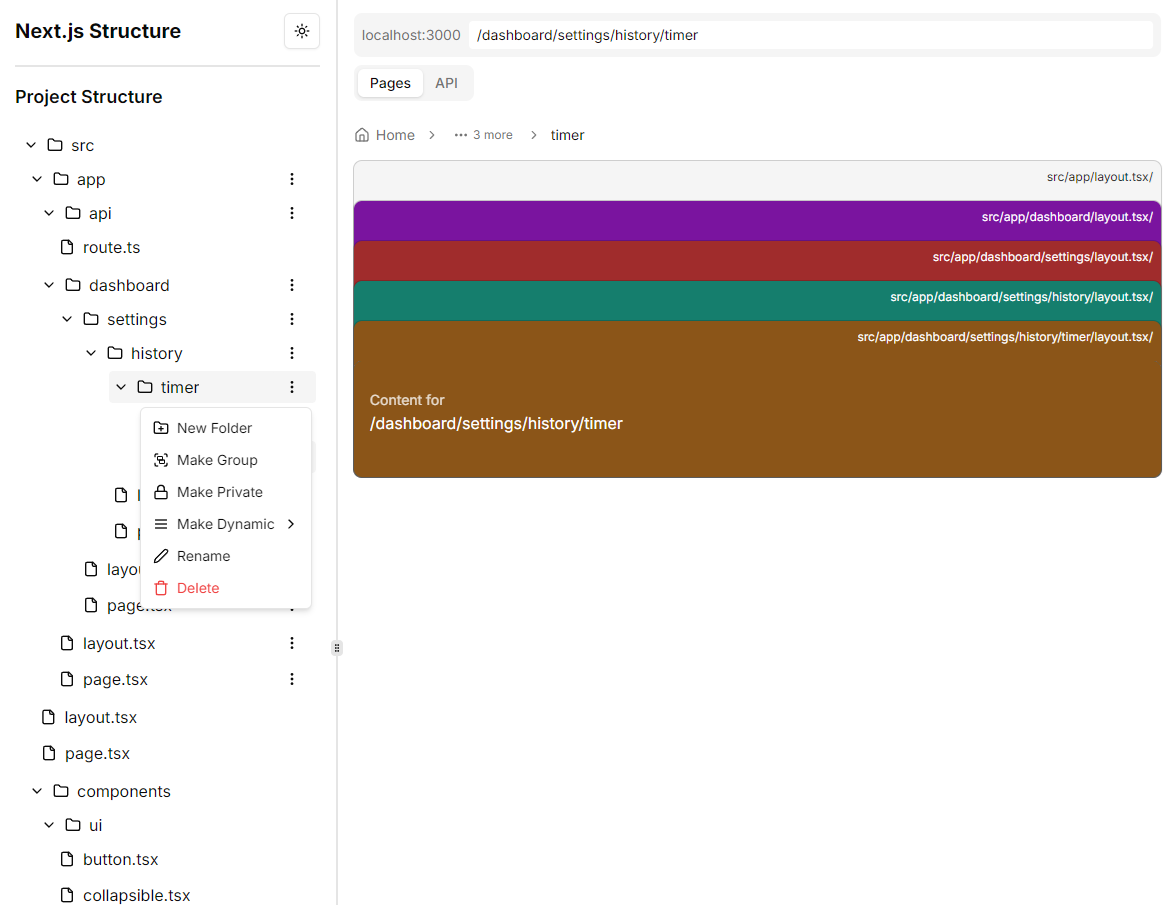
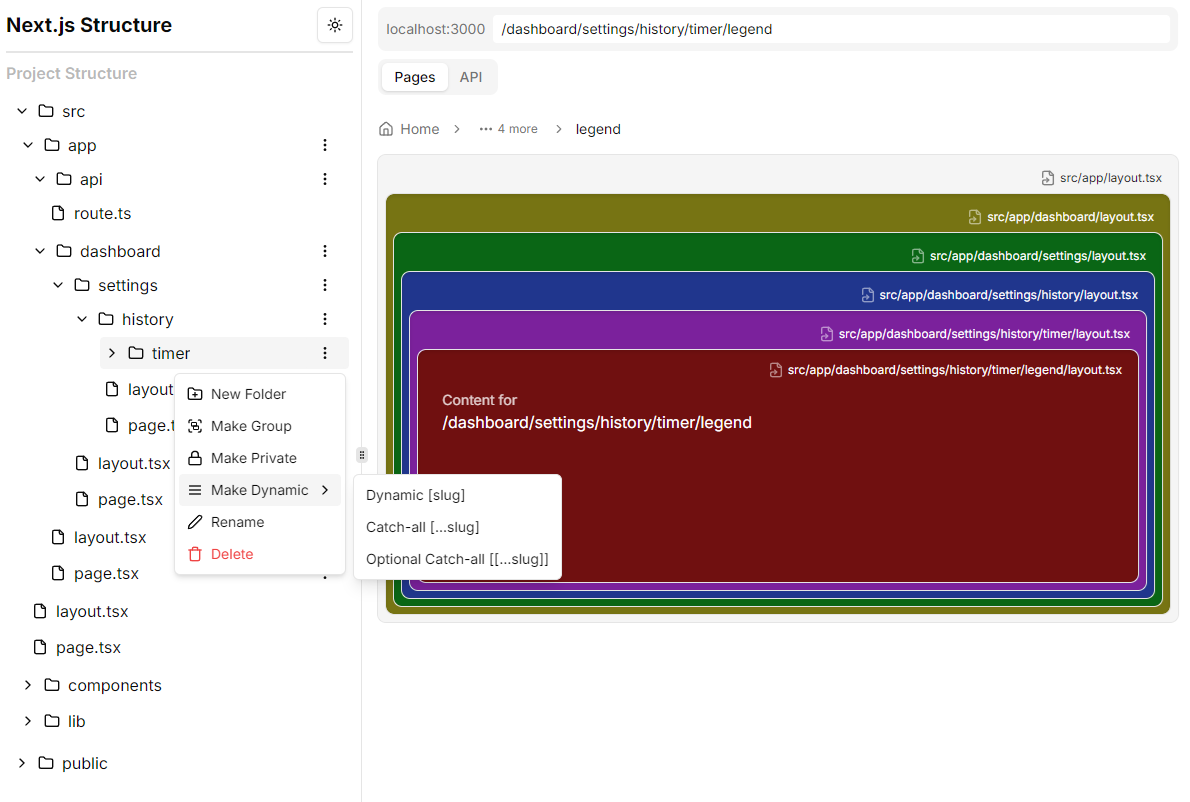
style: better layout understanding, new screenshot

diff --git a/components/browser/pages-tab.tsx b/components/browser/pages-tab.tsx
@@ -3,10 +3,19 @@
 import { useProject } from "@/context/project-context";
 import { cn, findParentFile, getFullPath } from "@/lib/utils";
 import PageBreadcrumb from "./page-breadcrumb";
+import { motion } from "framer-motion";
+import { FileTypes } from "@/lib/types/project";
+import { FileSymlink } from "lucide-react";
 
 export function PagesTab() {
-  const { currentFile, hasApiParent, getLayoutFile, projectStructure } =
-    useProject();
+  const {
+    currentFile,
+    hasApiParent,
+    getLayoutFile,
+    getPageFile,
+    setCurrentFile,
+    projectStructure,
+  } = useProject();
 
   if (hasApiParent(currentFile, false)) {
     return (
@@ -18,11 +27,16 @@ export function PagesTab() {
 
   const findParentLayouts = (
     file: typeof currentFile
-  ): Array<{ layout: ReturnType<typeof getLayoutFile>; level: number }> => {
+  ): Array<{
+    layout: ReturnType<typeof getLayoutFile>;
+    page: ReturnType<typeof getPageFile>;
+    level: number;
+  }> => {
     if (!file) return [];
 
     const layouts: Array<{
       layout: ReturnType<typeof getLayoutFile>;
+      page: ReturnType<typeof getPageFile>;
       level: number;
     }> = [];
     let currentLevel = 0;
@@ -30,8 +44,9 @@ export function PagesTab() {
 
     while (currentParent) {
       const layout = getLayoutFile(currentParent);
+      const page = getPageFile(currentParent);
       if (layout) {
-        layouts.unshift({ layout, level: currentLevel });
+        layouts.unshift({ layout, page, level: currentLevel });
       }
       const parent = findParentFile(projectStructure, currentParent);
       if (!parent) break;
@@ -44,23 +59,52 @@ export function PagesTab() {
 
   const layouts = findParentLayouts(currentFile);
 
-  const renderContent = () => (
-    <div className="min-h-[200px] h-full flex items-center p-4 w-full">
-      {currentFile?.endpoint ? (
-        <div className="max-w-full">
-          <span className="text-sm opacity-80 block truncate">Content for</span>
-          <span className="text-md opacity-100 block truncate">
-            {currentFile.endpoint}
-          </span>
-        </div>
-      ) : (
-        <p>Select a page from the project structure.</p>
-      )}
-    </div>
-  );
+  const renderContent = (page: ReturnType<typeof getPageFile>) => {
+    const isLayout = currentFile?.type === FileTypes.layout;
+    return (
+      <div
+        className={cn("min-h-[200px] h-full flex  p-4 w-full", {
+          "justify-center": !currentFile?.endpoint,
+          "items-center": !currentFile?.endpoint,
+        })}
+      >
+        {currentFile?.endpoint ? (
+          <div className="max-w-full">
+            <span className="text-sm opacity-80 block truncate">
+              Content for
+            </span>
+            <span className="text-md opacity-100 block truncate">
+              {currentFile.endpoint}
+            </span>
+          </div>
+        ) : (
+          <motion.p
+            whileHover={{ scale: isLayout ? 1.01 : 1 }}
+            className={cn({
+              "cursor-pointer": isLayout,
+            })}
+            onClick={(e) => {
+              e.stopPropagation();
+              if (page) {
+                setCurrentFile(page);
+              }
+            }}
+          >
+            {currentFile?.type === FileTypes.layout
+              ? "Click me or select a page from the project structure."
+              : "Select a page from the project structure."}
+          </motion.p>
+        )}
+      </div>
+    );
+  };
 
   const renderNestedLayout = (
-    layouts: Array<{ layout: ReturnType<typeof getLayoutFile>; level: number }>,
+    layouts: Array<{
+      layout: ReturnType<typeof getLayoutFile>;
+      page: ReturnType<typeof getPageFile>;
+      level: number;
+    }>,
     index: number,
     children: React.ReactNode
   ) => {
@@ -68,21 +112,25 @@ export function PagesTab() {
       return children;
     }
 
-    const { layout } = layouts[index];
+    const { layout, page } = layouts[index];
     const isLastLayout = index === layouts.length - 1;
     const fullPath = layout ? getFullPath(layout, projectStructure) : "";
     const layoutPath = fullPath.replace(/^\//, "").replace(/\/$/, "");
     const showShadow = index > 0;
     const showOutline = !isLastLayout || index < layouts.length;
-
     return (
-      <div
+      <motion.div
+        key={index}
+        layoutId={`layout-${index}`}
         className={cn("rounded-lg relative p-2", {
           "bg-accent": !layout?.customStyles,
           "outline outline-1 outline-border dark:outline-white/20": showOutline,
           "shadow-[inset_0_2px_4px_0_rgba(0,0,0,0.10)] dark:shadow-[inset_0_2px_4px_0_rgba(255,255,255,0.10)]":
             showShadow,
         })}
+        whileTap={{ scale: showShadow ? 0.99 : 1 }}
+        whileHover={{ scale: showShadow ? 0.99 : 1 }}
+        transition={{ duration: 0.1, delay: 0 }}
         style={{
           paddingTop: isLastLayout ? 0 : "15px",
           ...(layout?.customStyles && {
@@ -92,19 +140,29 @@ export function PagesTab() {
         }}
       >
         <div className="relative h-6">
-          <div
+          <motion.div
+            whileHover={{ scale: 1.01 }}
             className={cn(
-              "absolute right-2 top-0 text-xs truncate rtl max-w-[90%] ",
+              "absolute right-2 top-0 text-xs truncate rtl max-w-[90%] cursor-pointer",
               { "top-3": isLastLayout }
             )}
+            onClick={(e) => {
+              e.stopPropagation();
+              if (layout) {
+                setCurrentFile(layout);
+              }
+            }}
           >
-            {layoutPath}
-          </div>
+            <div className="flex items-center gap-1">
+              {layoutPath}
+              <FileSymlink size={16} className="opacity-50" />
+            </div>
+          </motion.div>
         </div>
         {isLastLayout
-          ? renderContent()
+          ? renderContent(page)
           : renderNestedLayout(layouts, index + 1, children)}
-      </div>
+      </motion.div>
     );
   };
 
@@ -122,7 +180,7 @@ export function PagesTab() {
             "flex items-center justify-center": !currentFile?.endpoint,
           })}
         >
-          {renderContent()}
+          {renderContent(null)}
         </div>
       )}
     </div>

diff --git a/context/project-context.tsx b/context/project-context.tsx
@@ -101,6 +101,7 @@ interface ProjectContextType {
   deleteFile: (fileId: string) => void;
   hasApiParent: (file: ProjectFile | null, checkItself: boolean) => boolean;
   getLayoutFile: (file: ProjectFile | null) => ProjectFile | null;
+  getPageFile: (file: ProjectFile | null) => ProjectFile | null;
   showInDropdown: (
     parent: ProjectFile | null,
     type: FileType | null,
@@ -150,6 +151,17 @@ export function ProjectProvider({ children }: { children: ReactNode }) {
     return (
       parent.children.find(
         (child: ProjectFile) => child.type === FileTypes.layout
+      ) || null
+    );
+  };
+
+  const getPageFile = (file: ProjectFile | null) => {
+    if (!file) return null;
+    const parent = findParentFile(projectStructure, file);
+    if (!parent?.children) return null;
+    return (
+      parent.children.find(
+        (child: ProjectFile) => child.type === FileTypes.page
       ) || null
     );
   };
@@ -372,6 +384,7 @@ export function ProjectProvider({ children }: { children: ReactNode }) {
         deleteFile,
         hasApiParent,
         getLayoutFile,
+        getPageFile,
         showInDropdown,
       }}
     >

diff --git a/app/page.tsx b/app/page.tsx
@@ -33,7 +33,7 @@ function HomeContent() {
             isHorizontal ? "min-w-[250px] max-h-[100dvh]" : "min-h-[200px]"
           }
         >
-          <div className={cn("flex flex-col h-full p-4")}>
+          <div className={cn("flex flex-col h-full p-2")}>
             <div className="flex justify-between items-center mb-2 border-b-2 pb-2">
               <h1 className="text-xl font-bold truncate">Next.js Structure</h1>
               <ThemeToggle />
@@ -50,7 +50,7 @@ function HomeContent() {
         <ResizablePanel defaultSize={isHorizontal ? 75 : 50}>
           <div
             className={cn(
-              "p-4 overflow-y-auto",
+              "px-4 py-2 overflow-y-auto",
               isHorizontal ? "h-[100dvh]" : "h-full"
             )}
           >
